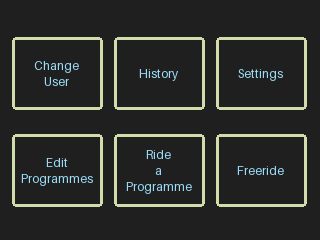
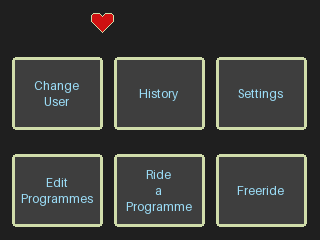
heart blinking on main menu

diff --git a/screen.py b/screen.py
@@ -60,14 +60,16 @@ class ScreenManager:
         self.COLOUR_FILL:       tuple = (139, 175, 255)
         self.COLOUR_OUTLINE:    tuple = (208, 220, 170)
         self.COLOUR_TEXT_LIGHT: tuple = (156, 223, 250)
-        self.COLOUR_TEXT_DARK:  tuple = (30, 50, 60)
+        self.COLOUR_TEXT_DARK:  tuple = (30,   50,  60)
         self.COLOUR_BUTTON:     tuple = (200,  60, 100)
+        self.COLOUR_HEART:      tuple = (207,  17,  17)
+        self.COLOUR_TT:         tuple = (207,  17,  17)
 
         #self.display = TFT.ILI9341(dc     = PIN_DC, 
-        #                           rst    = PIN_RST, 
-         #                          spi    = SPI.SpiDev(SPI_PORT, SPI_DEVICE, max_speed_hz = BUS_FREQUENCY), 
-          #                         width  = self.WIDTH, 
-           #                        height = self.HEIGHT)
+         #                          rst    = PIN_RST, 
+          #                         spi    = SPI.SpiDev(SPI_PORT, SPI_DEVICE, max_speed_hz = BUS_FREQUENCY), 
+           #                        width  = self.WIDTH, 
+            #                       height = self.HEIGHT)
         #self.display.begin()
         #self.display.clear(self.COLOUR_BG)    # Clear to background
 
@@ -619,7 +621,7 @@ class ScreenManager:
         return touchActiveRegions
             
 
-    def drawPageMainMenu(self) -> tuple:
+    def drawPageMainMenu(self, colour_heart: tuple, colour_trainer: tuple) -> tuple:
         #self.display.clear()
         #draw = self.display.draw() # Get a PIL Draw object
         draw = ImageDraw.Draw(self.im)
@@ -631,31 +633,30 @@ class ScreenManager:
         box_labels = ("Change\nUser", "History", "Settings", "Edit\nProgrammes","Ride\na\nProgramme", "Freeride")
 
         stateMachineStates = ("UserChange", "History", "Settings", "ProgEdit", "RideProgramme", "Freeride", "ProgSelect")
-        X_Pos = self.MARGIN_LARGE
-        Y_Pos = self.MARGIN_LARGE+25
+        
+        Y_Pos = self.MARGIN_LARGE
+        X_Pos = int((self.WIDTH - 4 * self.MARGIN_LARGE) / 3)
+        HEART_HEIGHT = 21
+        heartImage = self.drawHeart(HEART_HEIGHT, colour_heart, self.COLOUR_OUTLINE, self.COLOUR_BG)
 
+        #self.display.buffer
+        self.im.paste(heartImage, (X_Pos, Y_Pos))
+
+        Y_Pos = HEART_HEIGHT + 3 * self.MARGIN_LARGE
+        X_Pos = self.MARGIN_LARGE
         for i, zipped in enumerate(zip(box_labels, stateMachineStates)):
             
             label, state = zipped
 
             box_xy = (X_Pos, Y_Pos, X_Pos + box_width, Y_Pos + box_height)
 
-            draw.rounded_rectangle(xy = box_xy,
-                                radius = 4,
-                                fill = self.COLOUR_BG,
-                                outline = self.COLOUR_OUTLINE,
-                                width = 3)
+            draw.rounded_rectangle(xy = box_xy, radius = 4, fill = self.COLOUR_BG_LIGHT, outline = self.COLOUR_OUTLINE, width = 3)
             
             touchActiveRegions += ((box_xy, state),)
             
             font = ImageFont.load_default(12)
             box_centre_xy = (box_xy[0] + box_width / 2, box_xy[1] + box_height / 2)
-            draw.text(xy = box_centre_xy, 
-                text = label, # Box title
-                fill = self.COLOUR_TEXT_LIGHT,
-                font = font,
-                align="center",
-                anchor="mm")
+            draw.text(xy = box_centre_xy, text = label, fill = self.COLOUR_TEXT_LIGHT, font = font, align="center", anchor="mm")
             
             X_Pos += box_width + 12
 
@@ -666,7 +667,26 @@ class ScreenManager:
         self.im.save("mainMenu.png")
         return touchActiveRegions
 
-    def drawHeart(self, height: int, colour_fill: tuple, colour_outline: tuple, colour_bg: tuple):
+
+    def drawConnectionErrorMessage(self):
+        WIDTH = 150
+        HEIGHT = 68
+        
+        image = Image.new('RGB', (WIDTH, HEIGHT), self.COLOUR_BG_LIGHT)
+        draw = ImageDraw.Draw(image)
+
+        draw.rectangle(xy=(0,0, WIDTH-1, HEIGHT-1), outline=self.COLOUR_OUTLINE, fill=self.COLOUR_BG_LIGHT, width=2)
+
+        font = ImageFont.load_default(12)
+        draw.text(xy=(WIDTH/2, 10), text="Trainer Not Connected!", anchor="mt", font=font)
+        font = ImageFont.load_default(9)
+        draw.text(xy=(WIDTH/2, 47), text="Power up  or  start  pedalling\nto  wake up  the  trainer", anchor="mm", font=font, align="center")
+
+        #self.display.buffer.paste(image,(self.WIDTH/2, self.HEIGHT/5*4))
+        #self.display.display()
+
+
+    def drawHeart(self, height: int, colour_fill: tuple, colour_outline: tuple, colour_bg: tuple) -> Image:
 
         if height % 2 == 1:
             height = int(height/2)*2 + 1 ## make sure height is odd
@@ -680,7 +700,7 @@ class ScreenManager:
         Y_pos_offset = -1
         Y_pos = height + Y_pos_offset
         X_pos = int(width / 2) + 1 + X_pos_offset
-        print("W: ", width, " H: ", height, " Xc:", X_pos)
+
         for lineLength in range(0, width-1, 2):
             start = (X_pos, Y_pos)
             end = (X_pos + lineLength, Y_pos)
@@ -733,7 +753,8 @@ class ScreenManager:
             Y_pos -= 1
             X_pos -= 1
 
-        image.save("heart.png")
+        #image.save("heart.png")
+        return image
 
 
 
@@ -752,8 +773,9 @@ if __name__ == "__main__":
     lcd = ScreenManager()
     lcd.assignDataContainer(data)
     #lcd.drawPageWorkout("Program", "PROGRAM")
-    #lcd.drawPageMainMenu()
-    lcd.drawHeart(21, colour_outline=(250,240,240), colour_fill=(207,17,17), colour_bg=(0,0,0))
+    lcd.drawPageMainMenu(lcd.COLOUR_HEART, lcd.COLOUR_TT)
+    #lcd.drawHeart(21, colour_outline=(250,240,240), colour_fill=(207,17,17), colour_bg=(0,0,0))
+    #lcd.drawConnectionErrorMessage()
 
     workouts = Workouts()
 

diff --git a/controler.py b/controler.py
@@ -89,8 +89,20 @@ class Supervisor:
                 case "MainMenu":
                     print("state: Main menu")
                     touchActiveRegions = lcd.drawPageMainMenu()
+                    loopCounter: int = 0
+                    MAX_COUNT = 14
                     while self.state == "MainMenu":
-                        lcd.drawPageMainMenu()
+                        
+                        heartFillColour = lcd.COLOUR_HEART
+                        if device_heartRateSensor.connectionState == False and loopCounter > MAX_COUNT / 2 - 1:
+                            heartFillColour = lcd.COLOUR_BG_LIGHT
+                            device_heartRateSensor.connect = True  ## Maintain this flag true to continue to try to connect   
+
+                        TTFillColour = lcd.COLOUR_TT
+                        if device_turboTrainer.connectionState == False and loopCounter < MAX_COUNT / 2 - 1:
+                            TTFillColour = lcd.COLOUR_BG_LIGHT
+                            device_turboTrainer.connect = True  ## Maintain this flag true to continue to try to connect  
+
                         touch, location = touchScreen.checkTouch()
                         if touch == True:
                             for region in touchActiveRegions:
@@ -98,10 +110,16 @@ class Supervisor:
                                 if self.isInsideBoundaryBox(touchPoint=location, boundaryBox=boundary):
                                     self.oldState = self.state
                                     self.state = value
+                        
                         if self.state == "RideProgramme" or self.state == "Freeride" and device_turboTrainer.connectionState == False:
                             #### no TT connection, display error message, cancel state change
+                            lcd.drawConnectionErrorMessage()
                             self.state == "MainMenu"
+                            asyncio.sleep(4.0)
+                        else:
+                            lcd.drawPageMainMenu(heartFillColour, TTFillColour)
                         
+                        loopCounter = (loopCounter + 1) % MAX_COUNT
                         asyncio.sleep(0.1)
 
                 case "RideProgramme":
